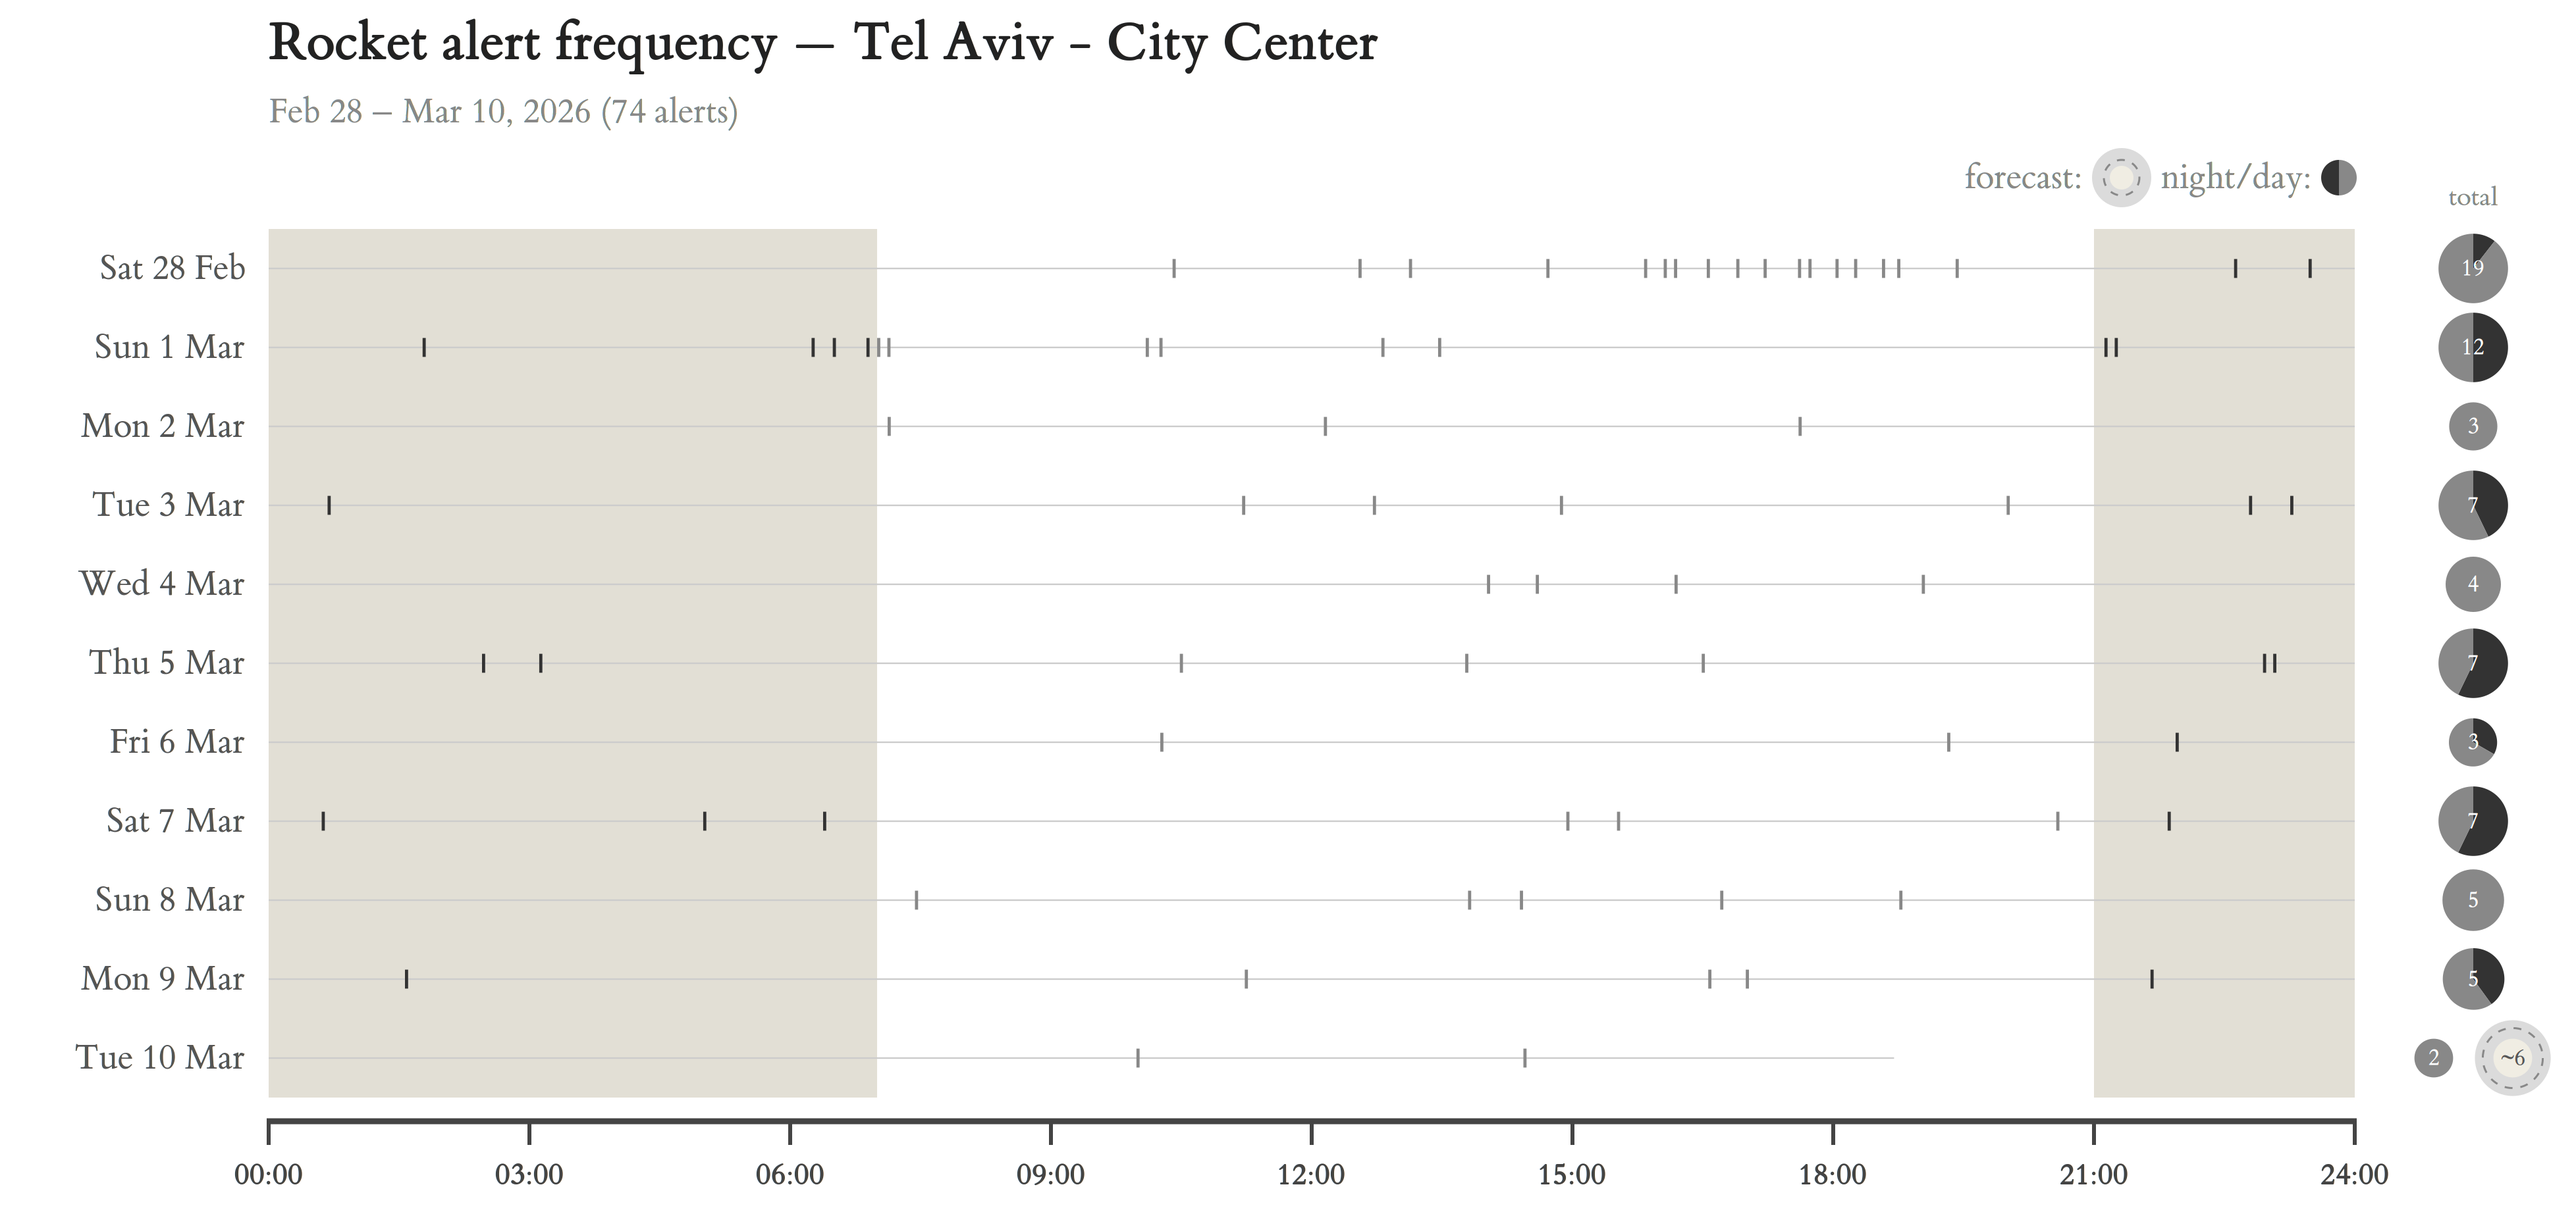
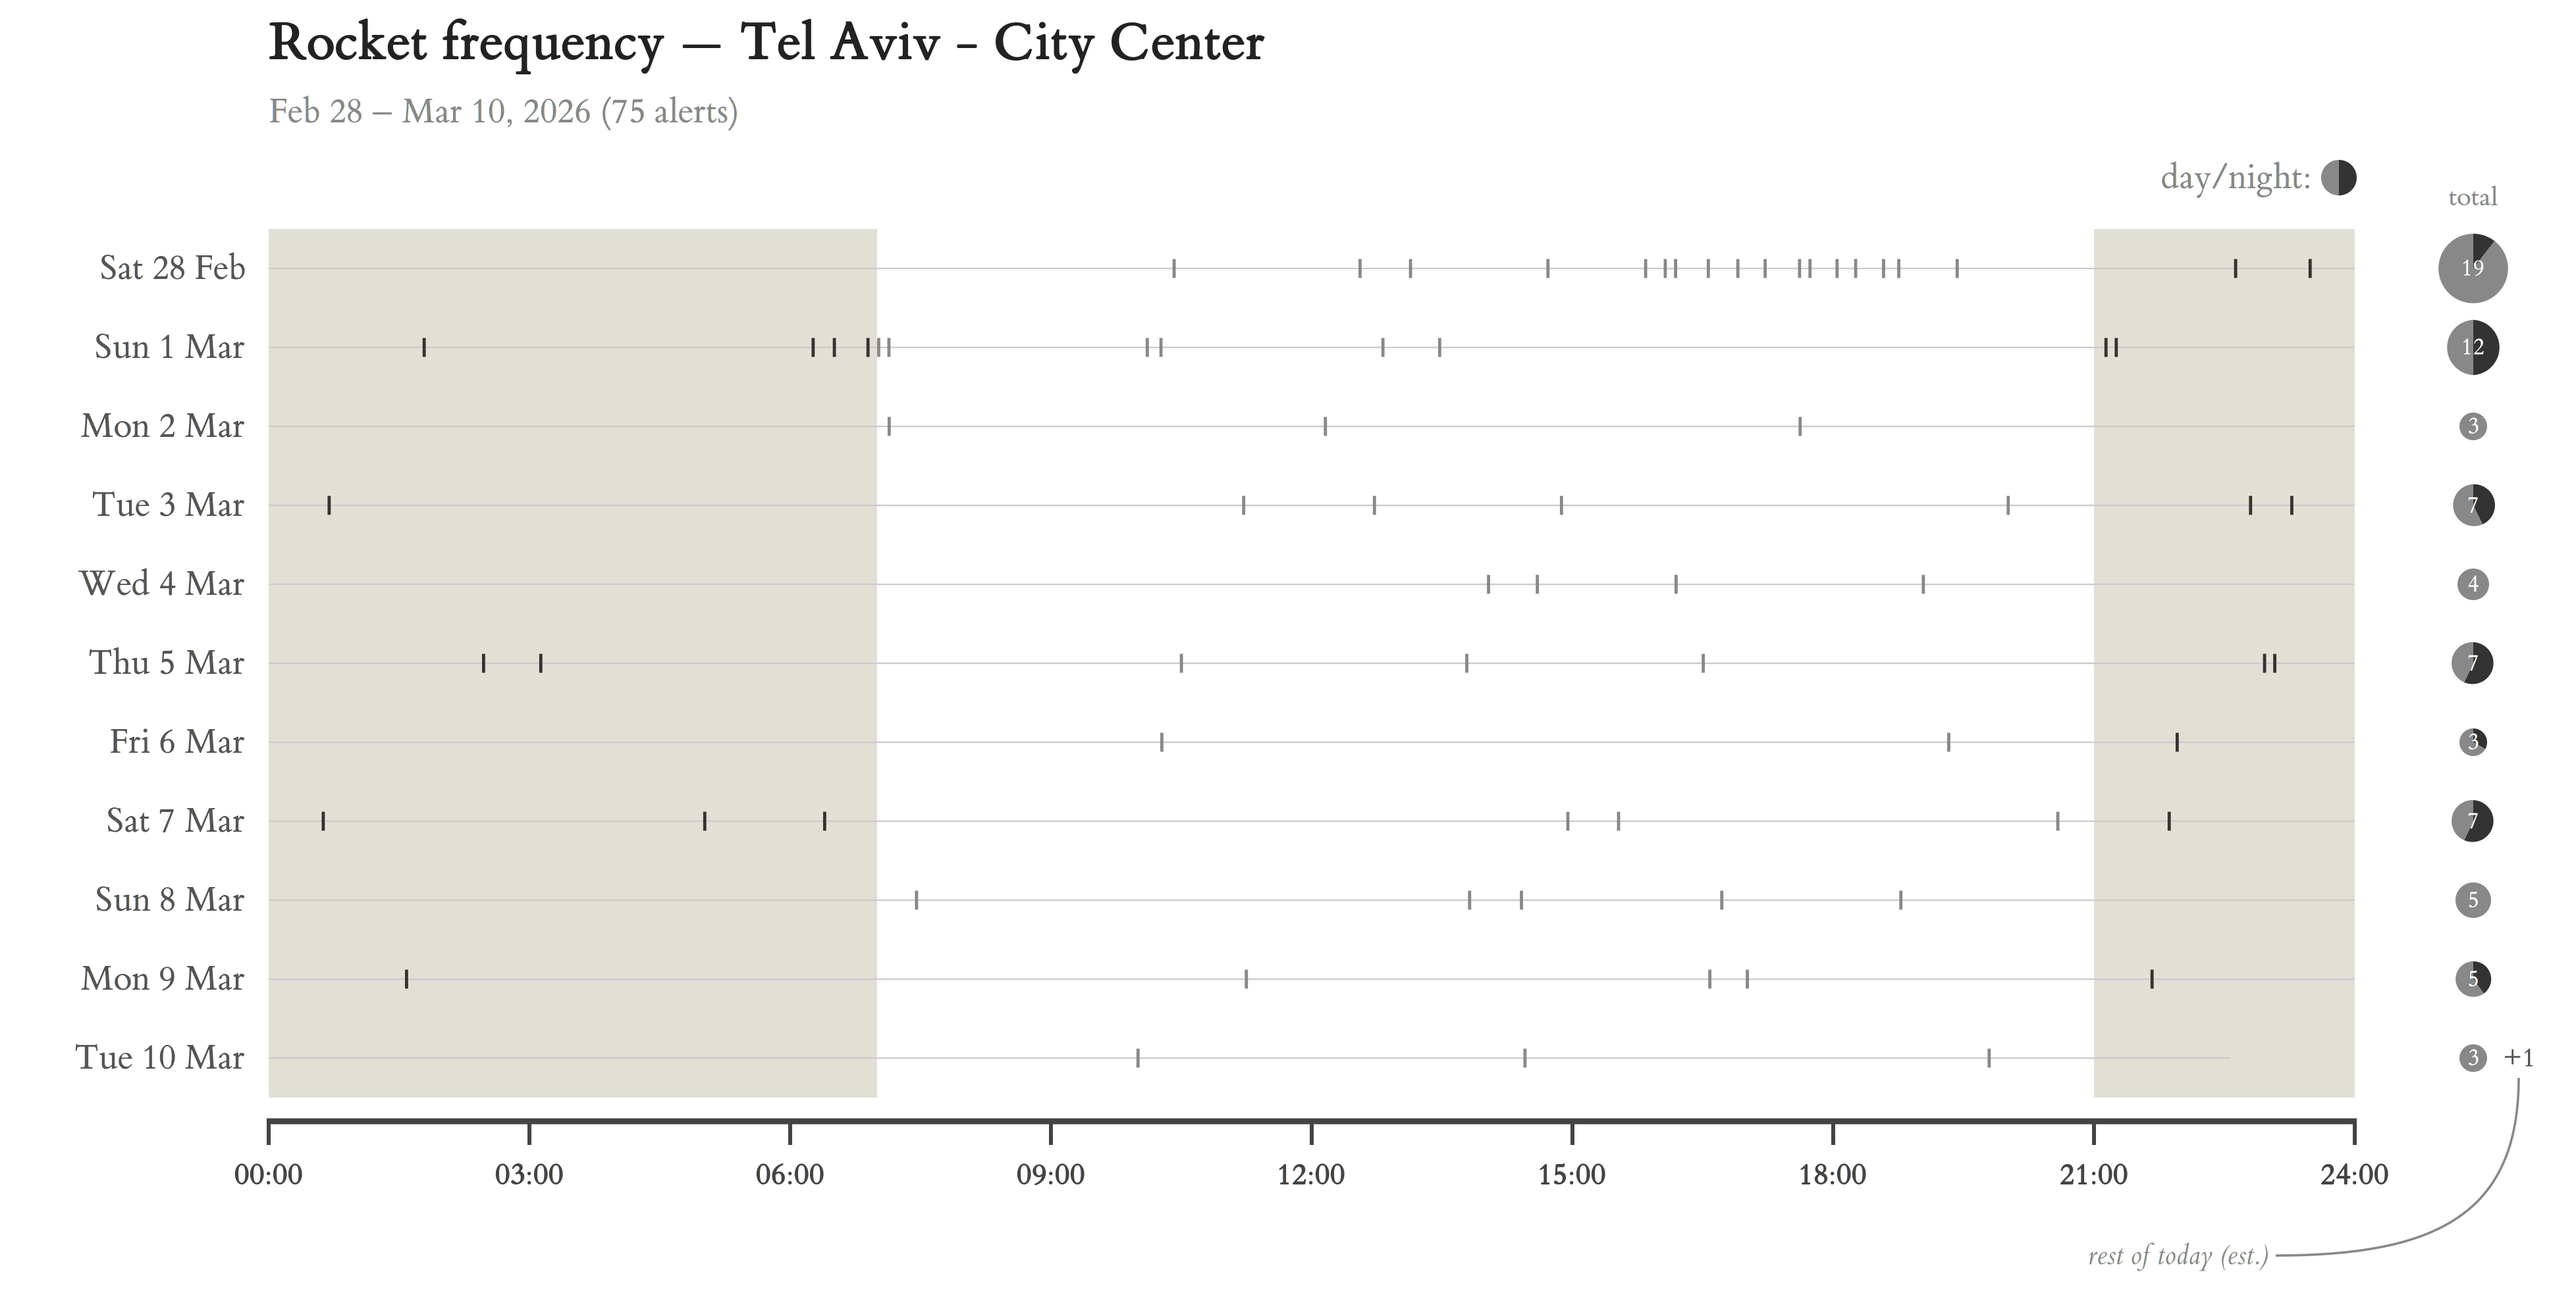
fix: dots mode — scale hourly dots by max bin count, not max daily total
- dot_r() now scales against max_bin (hourly) vs max_daily (total column)
- hourly dot scale factor 0.18 vs 0.35 for total column, so hourly
  dots are visually smaller and proportional within their own domain
- min radius reduced from 3.0 to 1.5

diff --git a/alarms_core.py b/alarms_core.py
@@ -1921,10 +1921,10 @@ def render_chart(
     def ypx(i: int) -> float:
         return TOP_MARGIN + i * ROW_H + ROW_H / 2
 
+    max_bin = max(bins.values()) if bins else 1
     max_daily = max(daily_totals.values()) if daily_totals else 1
-    def dot_r(n: int) -> float:
-        # Scale relative to dataset max so dots always differentiate
-        return max(3.0, math.sqrt(n / max_daily) * ROW_H * 0.44)
+    def dot_r(n: int, ref: int = max_bin, scale: float = 0.18) -> float:
+        return max(1.5, math.sqrt(n / ref) * ROW_H * scale)
 
     # ── Build SVG ─────────────────────────────────────────────────────────────
     o: list[str] = []
@@ -2015,7 +2015,7 @@ def render_chart(
         yc = ypx(i)
         cx = DOT_COL_X
         night_frac = daily_night[day] / tot
-        r = dot_r(tot)
+        r = dot_r(tot, max_daily, scale=0.35)
         if night_frac <= 0:
             o.append(
                 f'<circle cx="{cx:.0f}" cy="{yc:.1f}" r="{r:.1f}" fill="{DAY_DOT_COLOR}"/>'
